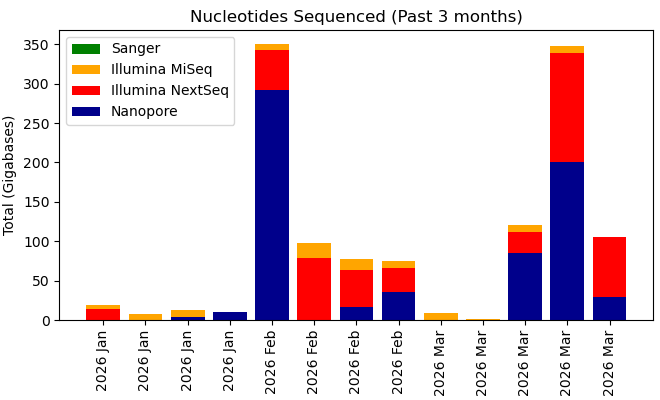
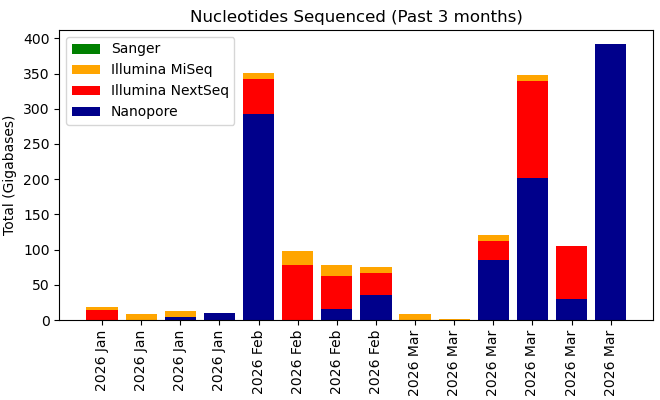
Your commit message here

diff --git a/krona/cgs.html b/krona/cgs.html
@@ -52,8 +52,8 @@ body {
   flex-direction: column;
 }
 </style>
-<H1>Genomics Facility Status: 07:00:09, 31/03/2026</H1>
-<marquee behavior="scroll" scrollamount="20" direction="left" bgcolor="lightgrey">CACTTCCTACAGGTAGCGTTGACCCTAATTTTGGTCGTCGGGTACGCAATCGCCGCCAGTTAAATAGCTTGCAAAATACGTGGCCTTATGGTTACAGTATGCCCATCGCAGTTCGCTACACGCAGGACGCTTTTTCACGTTCTGGTTGGTTGTGGCCTGTTGATGCTAAAGGTGAGCCGCTTAAAGCTACCAGTTATATGGCTGTTGGTTTCTATGTGGCTAAATACGTTAACAAAAAGTCAGATATGGAC</marquee>
+<H1>Genomics Facility Status: 07:00:16, 01/04/2026</H1>
+<marquee behavior="scroll" scrollamount="20" direction="left" bgcolor="lightgrey">TTTAACCTGACTATTCCACTGCAACAACTGAACGGACTGGAAACACTGGTCATAATCATGGTGGCGAATAAGTACGCGTTCTTGCAAATCACCAGAAGGCGGTTCCTGAATGAATGGGAAGCCTTCAAGAAGGTGATAAGCAGGAGAAACATACGAAGGCGCATAACGATACCACTGACCCTCAGCAATCTTAAACTTCTTAGACGAATCACCAGAACGGAAAACATCCTTCATAGAAATTTCACGCGGCG</marquee>
 <TABLE BORDER=0><TR><TD><TABLE class="styled-table"><H3>GigaBases Sequenced</H3>
-<TR><TD><b>Platform</b></TD><TD><b>Week</b></TD><TD><b>Month</b></TD><TD><b>Year</b></TD><TD><b>Total</b></TD></TR><TR><TD>Illumina MiSeq</TD><TD>0.0</TD><TD>26.99</TD><TD>351.08</TD><TD>517.1</TD></TR><TR><TD>Illumina NextSeq</TD><TD>76.33</TD><TD>242.05</TD><TD>4520.4</TD><TD>6463.94</TD></TR><TR><TD>Nanopore PromethION</TD><TD>29.15</TD><TD>314.73</TD><TD>7437.13</TD><TD>11448.35</TD></TR><TR><TD>Sanger</TD><TD>0.0</TD><TD>0.0</TD><TD>0.02</TD><TD>0.04</TD></TR></TABLE></TD><TD><IMG SRC="fig1.png"><IMG SRC="fig2.png"></TD></TR><TR><TD><H3>No. Samples (No. Experiments)</H3>
-<TABLE class="styled-table"><TR><TD><b>Platform</b></TD><TD><b>Week</b></TD><TD><b>Month</b></TD><TD><b>Year</b></TD><TD><b>Total</b></TD></TR><TR><TD>Illumina MiSeq</TD><TD>0 (0)</TD><TD>110 (4)</TD><TD>1517 (71)</TD><TD>2339 (93)</TD></TR><TR><TD>Illumina NextSeq</TD><TD>12 (1)</TD><TD>116 (4)</TD><TD>1383 (66)</TD><TD>2085 (83)</TD></TR><TR><TD>Nanopore PromethION</TD><TD>4 (1)</TD><TD>67 (14)</TD><TD>551 (178)</TD><TD>928 (312)</TD></TR><TR><TD>Sanger</TD><TD>670 (670)</TD><TD>2494 (2494)</TD><TD>20155 (20155)</TD><TD>42018 (42018)</TD></TR></TABLE></TD><TD><IMG SRC="fig4.png"></TD></TR></TABLE></HTML>
+<TR><TD><b>Platform</b></TD><TD><b>Week</b></TD><TD><b>Month</b></TD><TD><b>Year</b></TD><TD><b>Total</b></TD></TR><TR><TD>Illumina MiSeq</TD><TD>0.0</TD><TD>26.99</TD><TD>351.08</TD><TD>517.1</TD></TR><TR><TD>Illumina NextSeq</TD><TD>76.33</TD><TD>242.05</TD><TD>4520.4</TD><TD>6463.94</TD></TR><TR><TD>Nanopore PromethION</TD><TD>421.42</TD><TD>706.99</TD><TD>7829.4</TD><TD>11840.62</TD></TR><TR><TD>Sanger</TD><TD>0.0</TD><TD>0.0</TD><TD>0.02</TD><TD>0.04</TD></TR></TABLE></TD><TD><IMG SRC="fig1.png"><IMG SRC="fig2.png"></TD></TR><TR><TD><H3>No. Samples (No. Experiments)</H3>
+<TABLE class="styled-table"><TR><TD><b>Platform</b></TD><TD><b>Week</b></TD><TD><b>Month</b></TD><TD><b>Year</b></TD><TD><b>Total</b></TD></TR><TR><TD>Illumina MiSeq</TD><TD>0 (0)</TD><TD>110 (4)</TD><TD>1517 (71)</TD><TD>2339 (93)</TD></TR><TR><TD>Illumina NextSeq</TD><TD>12 (1)</TD><TD>116 (4)</TD><TD>1383 (66)</TD><TD>2085 (83)</TD></TR><TR><TD>Nanopore PromethION</TD><TD>22 (8)</TD><TD>68 (18)</TD><TD>552 (182)</TD><TD>929 (316)</TD></TR><TR><TD>Sanger</TD><TD>670 (670)</TD><TD>2398 (2398)</TD><TD>20155 (20155)</TD><TD>42018 (42018)</TD></TR></TABLE></TD><TD><IMG SRC="fig4.png"></TD></TR></TABLE></HTML>
